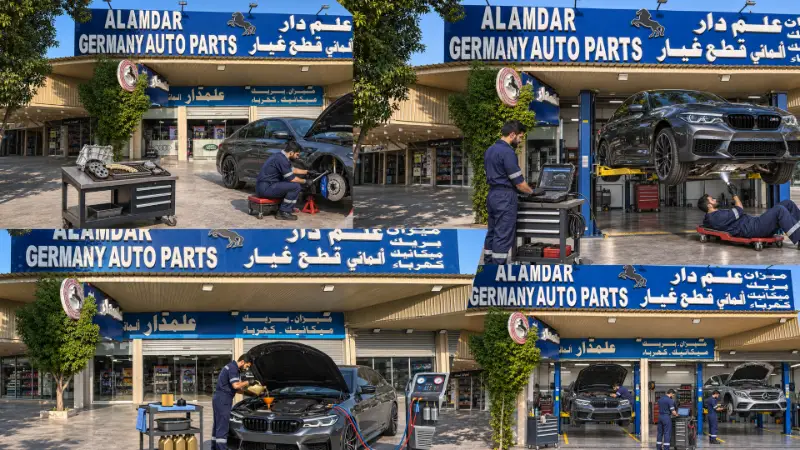
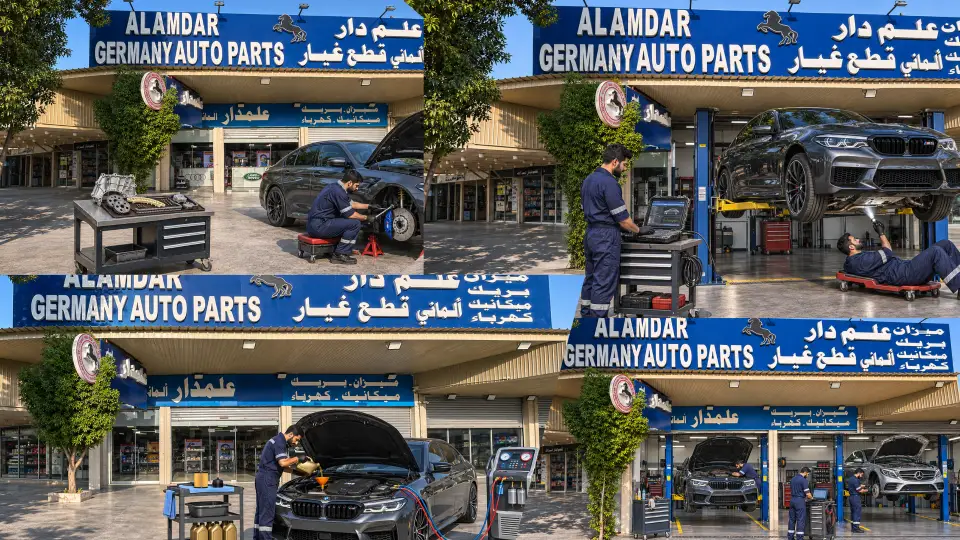
feat(services): full-bleed collage; remove the moving red brand strip
"Make it full screen like should take the whole space around it 2 u see
the read strip moving remove that"

Full-bleed collage
- #servicesBands moves OUT of .container: the services section closes its
  wrapper above the picture and opens a second one below it. That is how
  you get a true full-bleed here -- width: 100vw would be half a scrollbar
  too wide on desktop and shift the centring, and the overflow-x: clip on
  html/body would hide that rather than fix it.
- Square corners and hairline top/bottom edges instead of a card: at window
  width a rounded box reads as a widget, not a picture.
- Re-exported from the 1920x1080 source at its NATIVE width -- collage.webp
  1920w (368 KB) + collage-sm.webp 960w (119 KB), sizes="100vw" -- so an
  edge-to-edge picture stays sharp on a 1920 monitor instead of upscaling
  the old 1600w copy.
- Padding and type now clamp() against vw, since the quadrants are several
  times bigger than they were inside the container.
- The last quadrant gets extra right padding and a shorter caption: the
  fixed WhatsApp float parks exactly where that caption sits.

The red strip
- .marquee-wrap, the scrolling "Mercedes-Benz / BMW / Audi ..." bar under
  the hero, is deleted outright: markup, the .marquee-* rules in
  01-base.css, and fillMarquee() plus its language-switch rebuild in
  04-i18n-order.js. @keyframes marquee stays -- the (already dead)
  .offers-track rules still name it.
[…]

diff --git a/index.html b/index.html
@@ -102,7 +102,7 @@
   <!-- Hero skeleton. Reserves the hero's size BEFORE the loader below injects
        code/css/10-hero.css. Without it the hero is only as tall as its copy
        at first paint and then grows ~490px the moment that stylesheet lands,
-       dropping the marquee, categories and makes down the page with it — one
+       dropping the categories grid and everything under it down the page — one
        0.365 layout shift at 2.6s on a throttled phone, i.e. nearly all of the
        page's CLS (0.37 -> 0.01 with this in place).
 
@@ -401,32 +401,6 @@
     </div>
   </section>
 
-  <div class="marquee-wrap">
-    <div class="marquee-track">
-      <span>Mercedes-Benz</span><span class="sep">&nbsp;&#183;&nbsp;</span>
-      <span>BMW</span><span class="sep">&nbsp;&#183;&nbsp;</span>
-      <span>Audi</span><span class="sep">&nbsp;&#183;&nbsp;</span>
-      <span>Volkswagen</span><span class="sep">&nbsp;&#183;&nbsp;</span>
-      <span>Porsche</span><span class="sep">&nbsp;&#183;&nbsp;</span>
-      <span>MINI</span><span class="sep">&nbsp;&#183;&nbsp;</span>
-      <span>Brake Pads &amp; Discs</span><span class="sep">&nbsp;&#183;&nbsp;</span>
-      <span>Oil &amp; Air Filters</span><span class="sep">&nbsp;&#183;&nbsp;</span>
-      <span>Spark Plugs</span><span class="sep">&nbsp;&#183;&nbsp;</span>
-      <span>Suspension</span><span class="sep">&nbsp;&#183;&nbsp;</span>
-      <span>Genuine &amp; OEM</span><span class="sep">&nbsp;&#183;&nbsp;</span>
-      <span>Mercedes-Benz</span><span class="sep">&nbsp;&#183;&nbsp;</span>
-      <span>BMW</span><span class="sep">&nbsp;&#183;&nbsp;</span>
-      <span>Audi</span><span class="sep">&nbsp;&#183;&nbsp;</span>
-      <span>Volkswagen</span><span class="sep">&nbsp;&#183;&nbsp;</span>
-      <span>Porsche</span><span class="sep">&nbsp;&#183;&nbsp;</span>
-      <span>MINI</span><span class="sep">&nbsp;&#183;&nbsp;</span>
-      <span>Brake Pads &amp; Discs</span><span class="sep">&nbsp;&#183;&nbsp;</span>
-      <span>Oil &amp; Air Filters</span><span class="sep">&nbsp;&#183;&nbsp;</span>
-      <span>Spark Plugs</span><span class="sep">&nbsp;&#183;&nbsp;</span>
-      <span>Suspension</span><span class="sep">&nbsp;&#183;&nbsp;</span>
-      <span>Genuine &amp; OEM</span><span class="sep">&nbsp;&#183;&nbsp;</span>
-    </div>
-  </div>
 
   <!-- Shop by make: filters the catalog by expert_settings.fitment_map (see setMakeFilter() in js/02-catalog-render.js) -->
   <section id="makes" class="makes-section" aria-label="Shop by car make">
@@ -534,14 +508,18 @@
         <span><i class="fa fa-shield-halved" aria-hidden="true"></i> <span data-i18n="svc_t3">Workmanship guaranteed</span></span>
         <span><i class="fa fa-location-dot" aria-hidden="true"></i> <span data-i18n="svc_t4">Industrial Area, Sharjah</span></span>
       </div>
-      <!-- Photo collage: filled by renderServiceCollage() from the same
-           expert_settings 'services' row. ONE picture (img/services/collage,
-           two WebP widths) that the owner composed themselves, with a label
-           written over each of its four quadrants by a CSS grid of buttons.
-           Before the card grid on purpose — the pictures are what stop
-           someone scrolling. -->
-      <div id="servicesBands"></div>
+    </div>
 
+    <!-- Photo collage: filled by renderServiceCollage() from the same
+         expert_settings 'services' row. ONE picture (img/services/collage,
+         two WebP widths) that the owner composed themselves, with a label
+         written over each of its four quadrants by a CSS grid of buttons.
+         It sits OUTSIDE .container on purpose — the owner asked for it edge
+         to edge, and moving it out of the wrapper is how you get a true
+         full-bleed without a 100vw rule that trips over the scrollbar. -->
+    <div id="servicesBands"></div>
+
+    <div class="container">
       <div class="svc-list-head">
         <h3 data-i18n="svc_list_h">Every job we take on</h3>
         <p data-i18n="svc_list_p">Tap any job to book it on WhatsApp — we'll confirm the price and a time.</p>

diff --git a/code/css/12-services.css b/code/css/12-services.css
@@ -65,10 +65,18 @@
 .svc-collage {
   position: relative;
   display: block;
-  margin: 0 0 48px;
-  border-radius: 14px;
+  /* FULL-BLEED. This element lives outside .container in index.html, so it is
+     already the width of the page — no 100vw, which would be half a scrollbar
+     too wide on desktop and shift the centring. Square corners and hairline
+     edges instead of a card, because at this size a rounded box reads as a
+     widget rather than a picture. */
+  width: 100%;
+  margin: clamp(10px, 1.6vw, 26px) 0 clamp(34px, 4vw, 64px);
+  border: 0;
+  border-top: 1px solid rgba(255,255,255,0.07);
+  border-bottom: 1px solid rgba(255,255,255,0.07);
+  border-radius: 0;
   overflow: hidden;
-  border: 1px solid rgba(255,255,255,0.10);
   background: var(--charcoal);
   /* The source is 1920x1080 — matching it keeps the labels on their own
      quarters at every width and reserves the space before the image lands. */
@@ -96,7 +104,9 @@
   justify-content: flex-end;
   align-items: flex-start;
   gap: 4px;
-  padding: 16px 18px;
+  /* Scales with the picture: the collage is now as wide as the window, so
+     fixed padding left the labels stranded in a corner. */
+  padding: clamp(12px, 1.9vw, 38px);
   border: 0;
   background: transparent;
   cursor: pointer;
@@ -122,7 +132,7 @@
 /* A box that ends inside its own photo rather than at the foot of the
    picture: fade the scrim out instead of cutting it off, and sit the text
    higher so it stays on the dark part. */
-.svc-quad.is-mid { padding-bottom: 34px; }
+.svc-quad.is-mid { padding-bottom: clamp(22px, 3.4vw, 70px); }
 .svc-quad.is-mid::before {
   background: linear-gradient(180deg, rgba(0,0,0,0) 30%, rgba(0,0,0,0.84) 84%, rgba(0,0,0,0.40) 96%, rgba(0,0,0,0) 100%);
 }
@@ -132,12 +142,19 @@
 }
 
 .svc-quad:active { transform: scale(.995); }
+/* The scrim is painted in ::before, which would otherwise sit over the shared
+   focus ring from 11-ui-polish.css. */
+.svc-quad:focus-visible { z-index: 2; outline-offset: -4px; }
+/* The fixed WhatsApp float parks in the bottom-right corner of the viewport,
+   which is exactly where the last caption sits once the picture is full-bleed.
+   Give that one quadrant room so the two never collide. */
+.svc-collage-labels > .svc-quad:last-child { padding-right: clamp(12px, 7vw, 132px); }
 
 .svc-quad-name,
 .svc-quad-sub { position: relative; z-index: 1; }
 .svc-quad-name {
   font-family: var(--font-display);
-  font-size: clamp(13px, 1.6vw, 23px);
+  font-size: clamp(13px, 1.95vw, 36px);
   font-weight: 800;
   letter-spacing: 0.6px;
   text-transform: uppercase;
@@ -145,7 +162,8 @@
   text-shadow: 0 2px 10px rgba(0,0,0,0.72);
 }
 .svc-quad-sub {
-  font-size: clamp(10px, 0.85vw, 13px);
+  font-size: clamp(10px, 0.95vw, 17px);
+  max-width: 46ch;
   font-weight: 600;
   line-height: 1.45;
   color: rgba(255,255,255,0.86);
@@ -166,7 +184,7 @@
 .svc-list-head p { font-size: 13px; color: rgba(255,255,255,0.62); }
 
 @media (max-width: 860px) {
-  .svc-collage { margin-bottom: 34px; }
+  .svc-collage { margin-bottom: 26px; }
   .svc-quad { padding: 10px 12px; }
   .svc-quad.is-mid { padding-bottom: 20px; }
   /* A quarter of a phone-width 16:9 picture is about 190x105 — the name is

diff --git a/code/js/04-i18n-order.js b/code/js/04-i18n-order.js
@@ -10,21 +10,6 @@ function applyCatBgs() {
 }
 applyCatBgs();
 
-// ── MARQUEE AUTO-FILL ─────────────────────────────────────────────────────
-function fillMarquee() {
-  var track = document.querySelector('.marquee-track');
-  if (!track) return;
-  var origHTML = track.innerHTML;
-  var singleW  = track.scrollWidth;
-  if (!singleW) return;
-  var vw      = window.innerWidth || 1280;
-  var copies  = Math.max(3, Math.ceil(vw / singleW) + 2);
-  var half = '';
-  for (var i = 0; i < copies; i++) half += origHTML;
-  track.innerHTML = half + half;
-  track.style.animationDuration = Math.round((singleW * copies) / 100) + 's';
-}
-fillMarquee();
 
 // ── TRANSLATIONS ──────────────────────────────────────────────────────────
 var _lang = 'en';
@@ -243,14 +228,6 @@ function setLang(lang) {
   // another language, not a new one, so it shouldn't also move the visitor.
   if (typeof renderProducts === 'function') renderProducts(true);
 
-  // Rebuild marquee with translated items
-  var track = document.querySelector('.marquee-track');
-  if (track && t.mq_items) {
-    track.innerHTML = t.mq_items.map(function(item) {
-      return '<span>' + item + '</span><span class="sep">&nbsp;&#183;&nbsp;</span>';
-    }).join('');
-    fillMarquee();
-  }
 }
 
 function toggleLang() {

diff --git a/code/css/01-base.css b/code/css/01-base.css
@@ -173,12 +173,10 @@ body { font-family: 'Inter', sans-serif; color: var(--dark); background: var(--l
 #hero .btn-outline { color: #fff; border-color: rgba(255,255,255,0.6); }
 #hero .btn-outline:hover { background: rgba(193,18,31,0.25); border-color: #fff; color: #fff; }
 
-/* ── MARQUEE ─────────────────────────────────────────────────────────── */
-.marquee-wrap { background: var(--orange); padding: 11px 0; overflow: hidden; }
-
-.marquee-track { display: flex; gap: 20px; animation: marquee 28s linear infinite; white-space: nowrap; width: max-content; }
-.marquee-track span { font-size: 11px; font-weight: 800; color: #fff; letter-spacing: 1.5px; text-transform: uppercase; }
-.marquee-track .sep { opacity: 0.5; }
+/* The red scrolling brand strip that used to sit here was removed on
+   2026-11-13 at the owner's request ("u see the read strip moving remove
+   that"). @keyframes marquee stays because .offers-track below still
+   names it. */
 @keyframes marquee { from { transform: translateX(0); } to { transform: translateX(-50%); } }
 
 /* ── OFFERS CAROUSEL (images fill the frame, like product cards) ───────── */

diff --git a/code/js/09-services.js b/code/js/09-services.js
@@ -112,7 +112,7 @@ var DEFAULT_BANDS = [
     sub: "Your engine's exact oil spec, new filter, light reset" },
   { id: 'q-repairs',  box: [65.2, 58.9, 34.8, 41.1],
     name: 'Servicing & Repairs',
-    sub: 'Mercedes · BMW · Audi · VW · Porsche, in our own bays' }
+    sub: 'Mercedes · BMW · Audi · VW · Porsche' }
 ];
 
 // Fallback if a stored row has no boxes: an even quartering. Wrong for THIS
@@ -166,8 +166,9 @@ function renderServiceCollage(collage, labels) {
   var img = isRemote
     ? '<img src="' + encodeHtmlSvc(collage) + '" alt="' + encodeHtmlSvc(ALT) + '" loading="lazy" decoding="async" />'
     : '<img src="' + encodeHtmlSvc(collage) + '.webp" ' +
-        'srcset="' + encodeHtmlSvc(collage) + '-sm.webp 800w, ' + encodeHtmlSvc(collage) + '.webp 1600w" ' +
-        'sizes="(max-width: 760px) 100vw, 1160px" ' +
+        'srcset="' + encodeHtmlSvc(collage) + '-sm.webp 960w, ' + encodeHtmlSvc(collage) + '.webp 1920w" ' +
+        // Edge to edge at every width, so the picture IS the viewport.
+        'sizes="100vw" ' +
         'alt="' + encodeHtmlSvc(ALT) + '" loading="lazy" decoding="async" />';
 
   var quads = labels.map(function (b, i) {

diff --git a/code/css/10-hero.css b/code/css/10-hero.css
@@ -29,7 +29,7 @@
 }
 .ge-hero-canvas { position: absolute; inset: 0; width: 100%; height: 100%; display: block; opacity: 0; transition: opacity 1.4s ease; }
 .ge-hero.shader-on .ge-hero-canvas { opacity: 1; }
-/* Soft fade into the brand marquee bar below */
+/* Soft fade into whatever follows the hero */
 .ge-hero::after { content: ''; position: absolute; left: 0; right: 0; bottom: 0; height: 90px; background: linear-gradient(to bottom, transparent, rgba(15,17,21,.55)); pointer-events: none; z-index: 0; }
 
 .ge-hero-inner {

diff --git a/admin/js/15-services.js b/admin/js/15-services.js
@@ -76,7 +76,7 @@ var ADMIN_DEFAULT_BANDS = [
   { id:'q-oil',     name:'Oil & Filter Service',
     sub:"Your engine's exact oil spec, new filter, light reset" },
   { id:'q-repairs', name:'Servicing & Repairs',
-    sub:'Mercedes · BMW · Audi · VW · Porsche, in our own bays' }
+    sub:'Mercedes · BMW · Audi · VW · Porsche' }
 ];
 
 var _svcCfg   = { enabled: true, intro: {}, items: [], bands: [], collage: '' };

diff --git a/handoff.md b/handoff.md
@@ -26,7 +26,7 @@ Head of `main` is **`dba8925b`**. Site and admin are live; the DB is wired; the 
 | Contact | `SHOP_WA = '971525364791'` (+971 52 536 4791) is real and wired everywhere. No `971500000000` remains anywhere in the repo |
 | Palette | **Red**, not gold — `--orange: #c1121f` on light surfaces, `--orange-light`/`--gold: #ef3b42` on dark. `--yellow #f59e0b` is a *status* colour, not the accent |
 | Mode | **Catalog-only** (`ONLINE_ORDERING_ENABLED = false`) and **email offers off** (`EMAIL_OFFERS_ENABLED = false`) |
-| Services | `#services` ("Our Mechanics Service Your Car") sits directly under the category grid, above the product grid, and is live with the owner's **own 2×2 collage photo**, a service name written over each of its four frames (each one a WhatsApp booking), above **10 seeded services, all "Price on request"**, plus an admin **Services** tab that writes `expert_settings.services`. Saving needs an admin login, so both lists stay the seeded ones until the owner bootstraps an account and sets real prices |
+| Services | `#services` ("Our Mechanics Service Your Car") sits directly under the category grid, above the product grid, and is live with the owner's **own 2×2 collage photo, full-bleed edge to edge**, a service name written over each of its four frames (each one a WhatsApp booking), above **10 seeded services, all "Price on request"**, plus an admin **Services** tab that writes `expert_settings.services`. Saving needs an admin login, so both lists stay the seeded ones until the owner bootstraps an account and sets real prices |
 
 **Live counts (checked 2026-11-10):** products **0**, orders **0**, admin profiles **0**.
 
@@ -168,7 +168,7 @@ Owner's request: *"do the admin page and add mechanics servicing cars"*.
 Owner: *"when scrolling down you see 3 or 4 collages type of things of photos showing services"*, then sent four 1774×887 workshop shots.
 
 - Four alternating photo bands now sit above the card grid inside `#services` — picture one side, heading + three tick points + a WhatsApp booking button on the other, sides swapping band by band, photo-first when stacked on a phone. Brakes / Oil & filter / Diagnostics / Our workshop.
-- Stored in the same `expert_settings` `services` row: `collage` (one photo path, no extension) + `bands` (max four labels, `{id,name,sub,box,active}`, in reading order). Reshaped twice on 2026-11-13 — alternating photo bands, then four separate tiles, then the owner's own single collage with a name written on each frame; old rows fold forward via `b.name || b.title`. The `#services` section also moved up to sit directly under the category grid. **The labels are positioned by measured percentages, not an even grid — the collage is a pinwheel (seams at x 44.1%/65.2%, y 50.8%/58.9%).**
+- Stored in the same `expert_settings` `services` row: `collage` (one photo path, no extension) + `bands` (max four labels, `{id,name,sub,box,active}`, in reading order). Reshaped twice on 2026-11-13 — alternating photo bands, then four separate tiles, then the owner's own single collage with a name written on each frame; old rows fold forward via `b.name || b.title`. The `#services` section also moved up to sit directly under the category grid. **The labels are positioned by measured percentages, not an even grid — the collage is a pinwheel (seams at x 44.1%/65.2%, y 50.8%/58.9%).** Then made full-bleed by moving `#servicesBands` outside `.container` (no `100vw`), re-exported at the source's native 1920w/960w, with `clamp()`ed type and padding. The red scrolling `.marquee-wrap` strip under the hero was deleted outright in the same pass — markup, CSS and `fillMarquee()`.
 - **The four source frames carry another business's sign** ("Alamdar Germany Auto Parts") across the top half. Each is cropped to the lower ~47-48%, below the second Arabic sign band, so none of that branding reaches the site. The owner was asked twice whether Alamdar is theirs and hasn't answered; **if it is, un-cropping is a one-command re-run** of the pipeline with the crop rect widened to the full frame. Originals in `img/services/src/` (14 MB, matching the `img/hero/src/` convention).
 - Pipeline was the usual browser canvas: temporary `_imgtool.html` at the repo root (same origin as the PNGs, or the canvas taints) drawing a labelled 10% grid to read crop rects off a screenshot, then POSTing WebPs to a throwaway node server. First pass mis-framed `oil-service` (mechanic half out of frame) and left dead floor in `diagnostics`; both re-cropped before shipping. Tool and server deleted.
 - Output: two WebP widths each (~850w and 430w, 2:1), 24-89 KB per file, `srcset`+`sizes` so phones pull the small copy.
